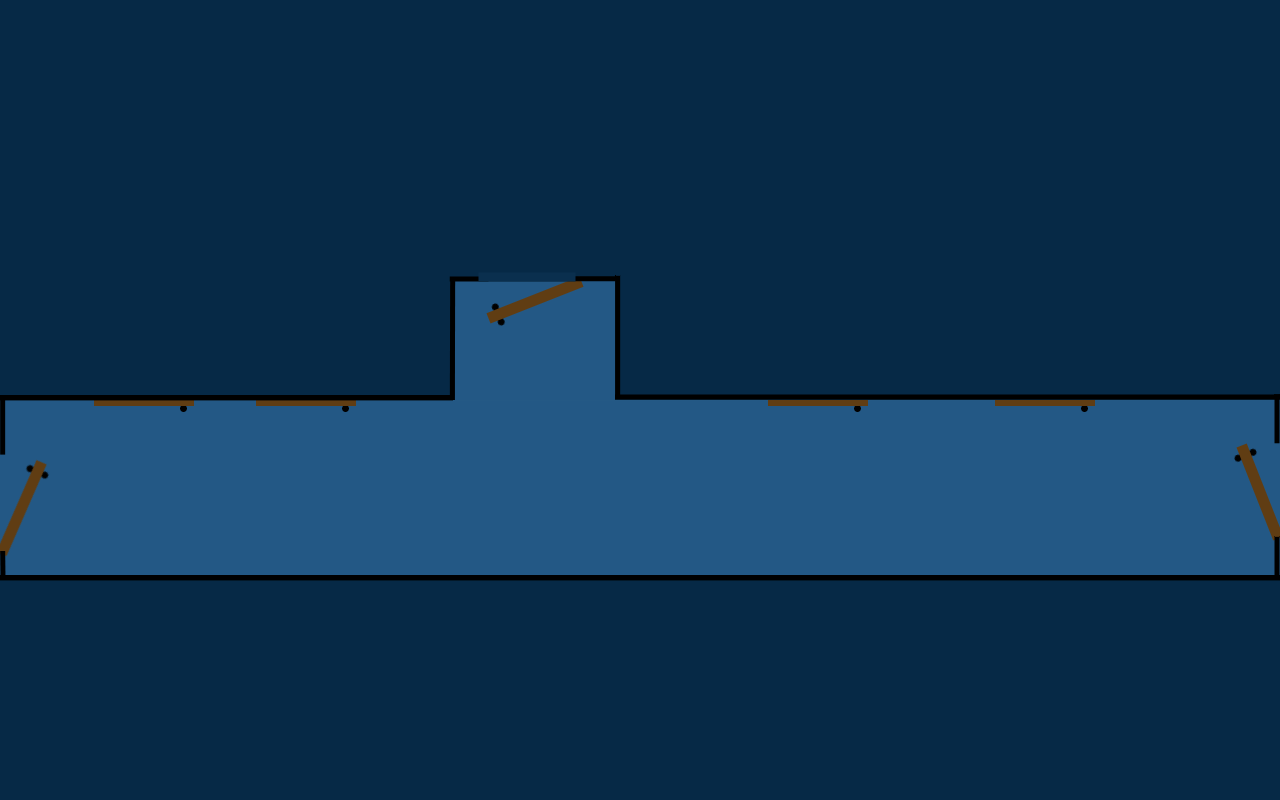
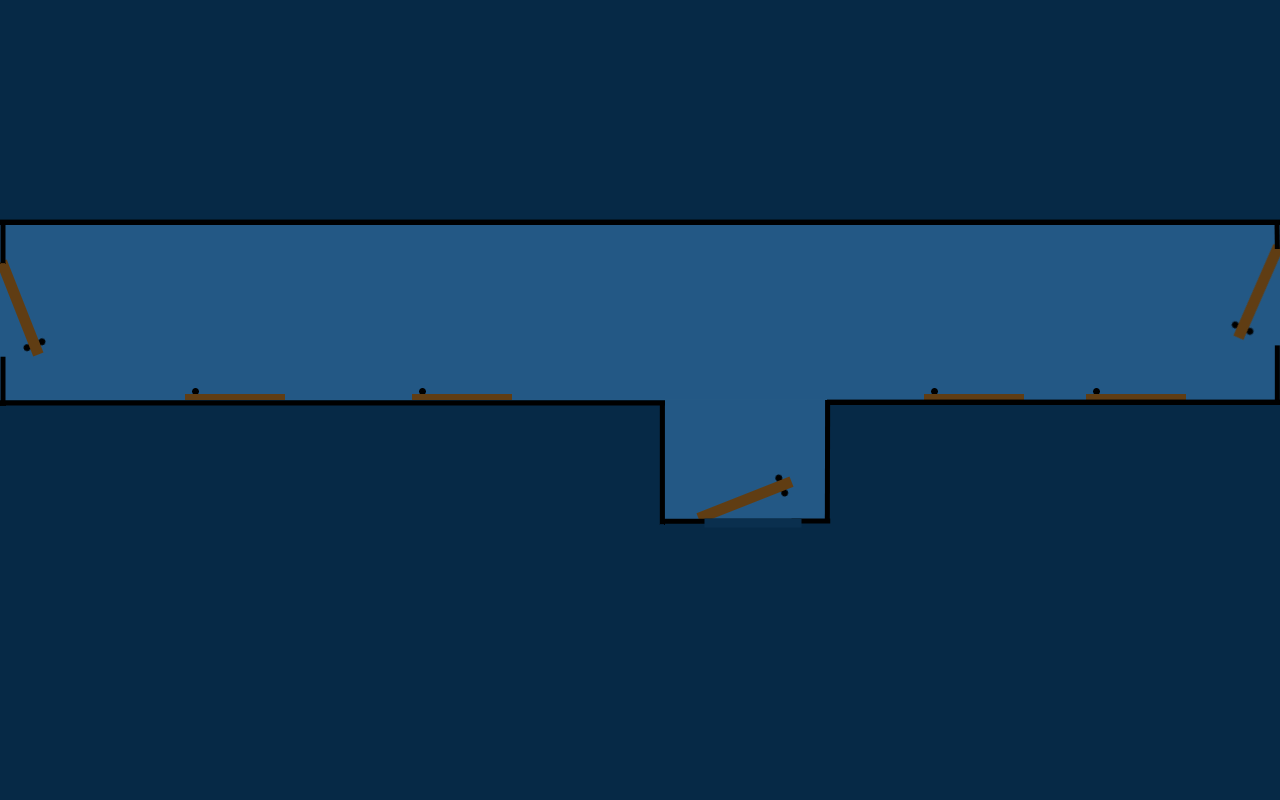
fixed rooms

diff --git a/src/Weapon.java b/src/Weapon.java
@@ -3,7 +3,7 @@ public class Weapon extends Item {
     public static final Weapon SWITCH_BLADE = new Weapon("Switch Blade", "A small pocket knife", "assets/SwitchBlade.png", 0, 0);
     public static final Weapon ROUNDERS_BAT = new Weapon("Rounders Bat", "A light wooden rounders bat", "assets/RoundersBat.png", 0, 0);
     public static final Weapon PIANO_WIRE = new Weapon("Piano Wire", "Wire from a piano", "assets/PianoWire.png", 0, 0);
-    public static final Weapon PLASTIC_BAG = new Weapon("Plastic Bag", "A small bag for life", "assets/PlasticBag.png", 900, 600);
+    public static final Weapon PLASTIC_BAG = new Weapon("Plastic Bag", "A small bag for life", "assets/PlasticBag.png", 900, 700);
     public static final Weapon BLEACH = new Weapon("Bleach", "A bottle of toxic bleach", "assets/Bleach.png", 0, 0);
     public static final Weapon SCREWDRIVER = new Weapon("Screwdriver", "A sharp small screwdriver", "assets/Screwdriver.png", 0, 0);
     public static final Weapon CORK_SCREW = new Weapon("Cork Screw", "A small sharp tool for opening bottles", "assets/Corkscrew.png", 0, 0);

diff --git a/src/GameBoard.java b/src/GameBoard.java
@@ -31,9 +31,12 @@ public class GameBoard extends JPanel implements ActionListener {
         player = new PlayerMoveable(this);
 
 
-        Rooms.LABS.setDoors(new Door[]{new Door(1100, 0, 0,720, null), new Door(0, 720, 600,0, Rooms.KITCHEN)});
-        Rooms.KITCHEN.setDoors(new Door[]{new Door(650, 0,0, 720, Rooms.LABS)});
-        this.room = Rooms.LABS;
+        Rooms.LABS.setDoors(new Door[]{new Door(1100, 0, 680,490, Rooms.UPPER_HALL), new Door(0, 720, 750,490, Rooms.KITCHEN)});
+        Rooms.KITCHEN.setDoors(new Door[]{new Door(740, 0,0, 720, Rooms.LABS), new Door(1050,0,0,0,null),
+        new Door(0,50,0,0,null), new Door(1120,700,600,790,Rooms.VERTICAL_HALL)});
+        Rooms.UPPER_HALL.setDoors(new Door[]{new Door(680,490,1100,0, Rooms.LABS), new Door(0,264,0,0,null), new Door(1150, 260,400,40,Rooms.VERTICAL_HALL)});
+        Rooms.VERTICAL_HALL.setDoors(new Door[]{new Door(400,40,1100,260,Rooms.UPPER_HALL), new Door(690,160,0,0,null), new Door(600,790,1120,700,Rooms.KITCHEN)});
+        this.room = Rooms.VERTICAL_HALL;
 
         room.roomDesc(Main.box);
 

diff --git a/src/Rooms.java b/src/Rooms.java
@@ -3,6 +3,7 @@ public class Rooms {
 
 
 
+
 //    public static final Room PARK = new Room("Park","A lovely park","assets/park.png",
 //            new Suspect[]{Suspect.JON}, new Item[]{Item.knife}, new IWorldObject[]{}, null);
 //    public static final Room BEACH = new Room("Beach","A sandy beach","assets/beach.png",
@@ -50,6 +51,11 @@ public class Rooms {
             new Item[]{Weapon.KNIFE, Weapon.PLASTIC_BAG}, new IWorldObject[] {kitchenTop,
             kitchenCounter, kitchenSofa, tableOne, tableTwo, tableThree, bigTable, kitchenWall,
             kitchenTopBar});
+
+    public static final Room UPPER_HALL = new Room("Upper hallway","The hallway that leads to other hallways, and the labs.",
+            "assets/upper_hall.png", null, new Item[]{Item.CARD}, null);
+    public static final Room VERTICAL_HALL = new Room("Vertical hallway","The hallway that connects you to the kitchen, Jon's office and another hallway.",
+            "assets/vertical_hall.png",null,null,null);
 
 
 }

diff --git a/src/Item.java b/src/Item.java
@@ -5,6 +5,7 @@ public class Item implements IWorldObject {
 
     public static final Item knife = new Item("Knife", "A sharp kitchen knife with a wooden handle", "./assets/Knife.png", true, 500,500);
     public static final Item cereal = new Item("Cereal", "A box of Corn Flakes", "cornflakes.png",true, 0, 0);
+    public static final Item CARD = new Item("Matriculation Card","Tamzid's, the victim, matriculation card. It has a slight blood splatter on the left. ","assets/card.png",true,165,275);
     protected String name;
     protected String description;
     protected boolean canPick;
